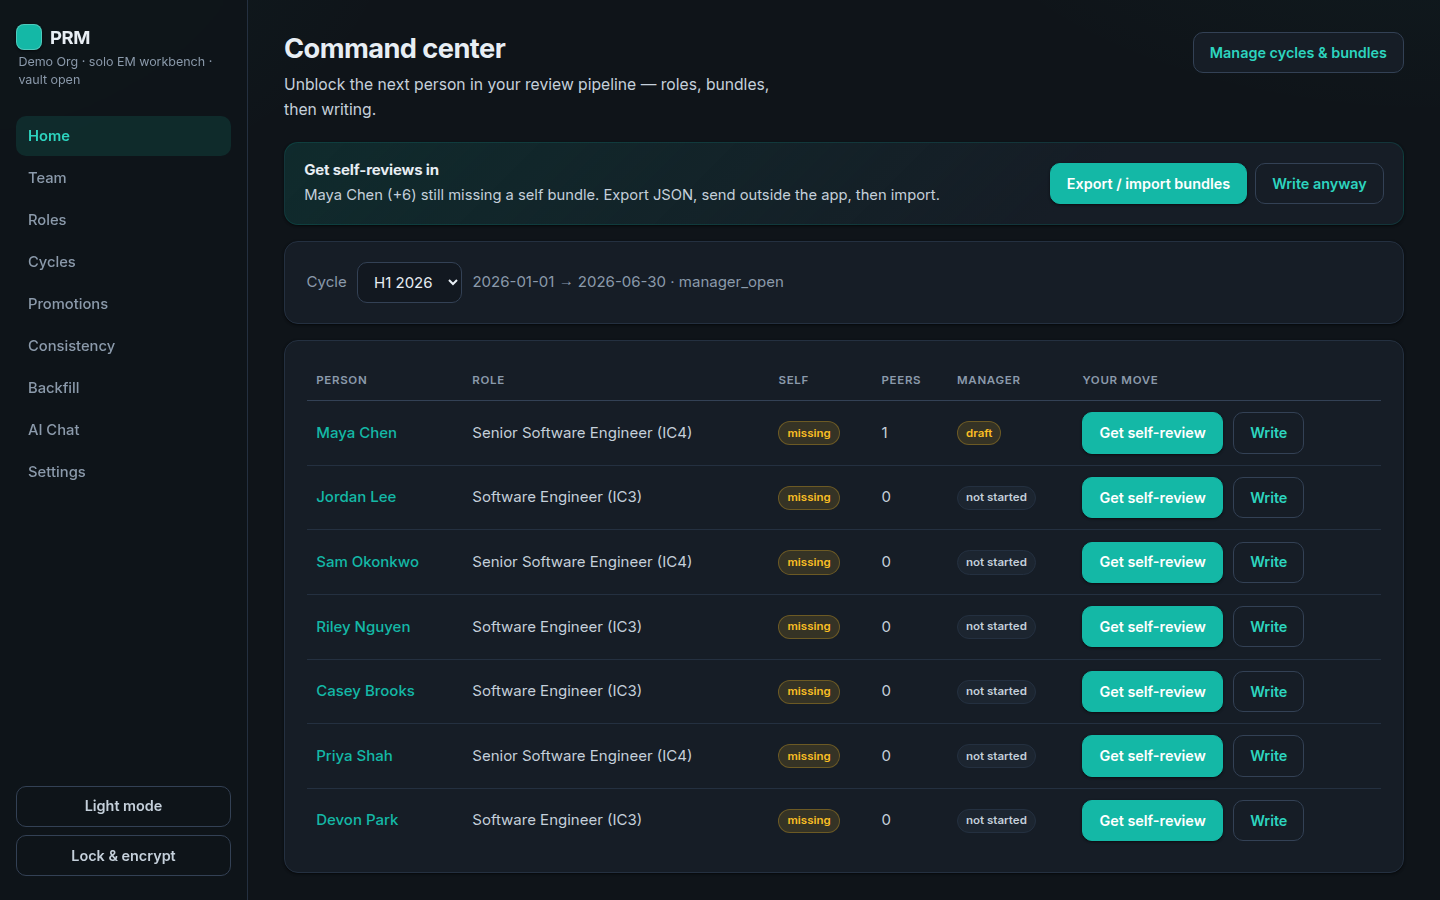
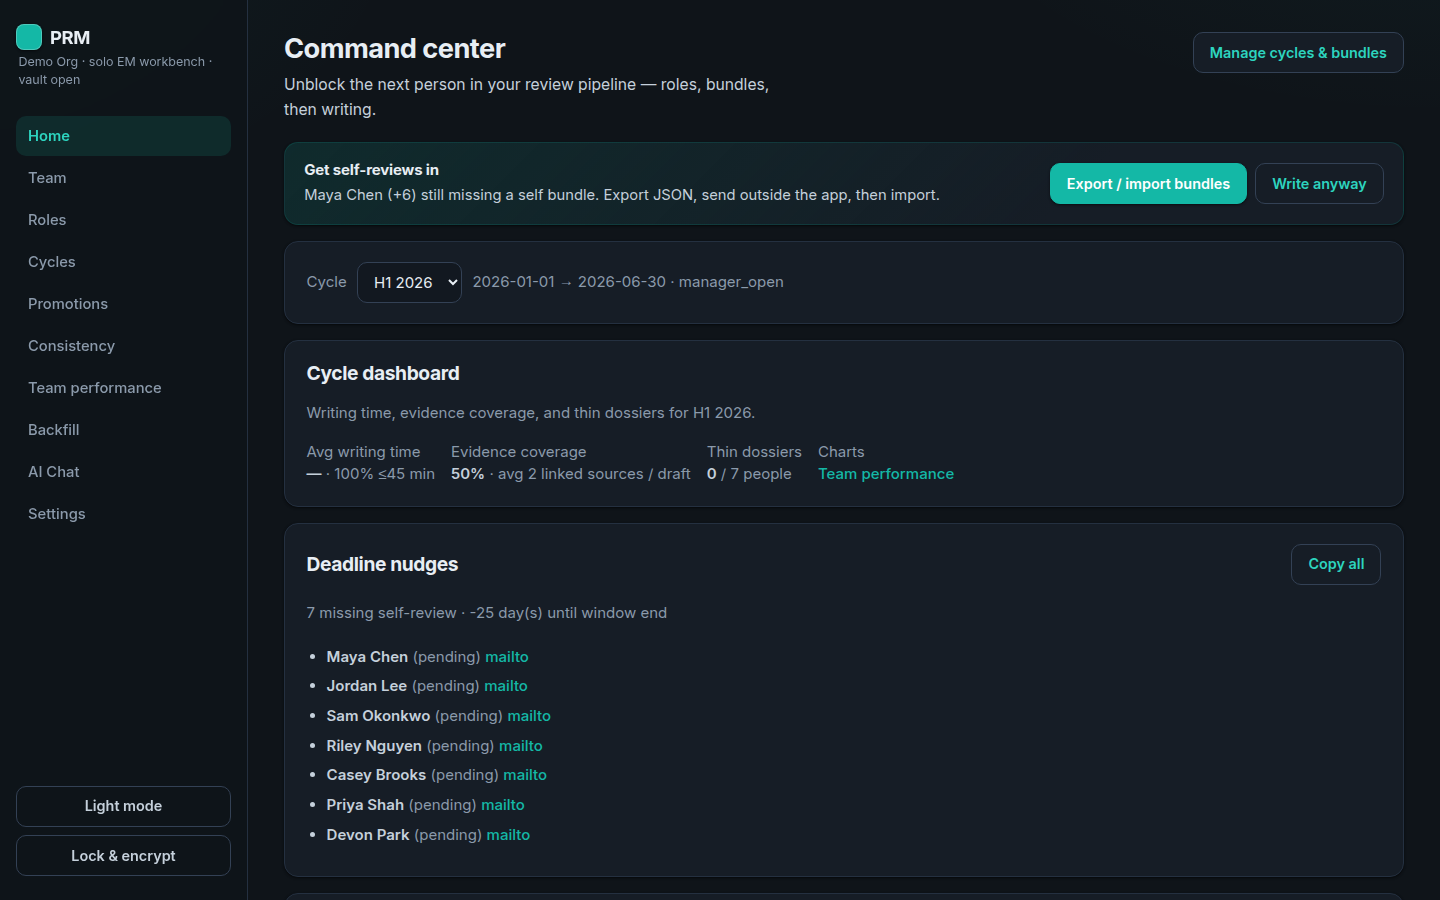
Refresh README with screen intent and team performance
Expand each screen with intent and how-it-works notes, drop em dashes,
add the team performance gallery shot, and renumber later screenshots.

diff --git a/README.md b/README.md
@@ -2,11 +2,39 @@
 
 Local **solo EM workbench** for evidence-backed performance reviews and promotion cases.
 
-ICs never log in. Self/peer input arrives as JSON import bundles. Your vault stays on disk — **Lock & encrypt** seals SQLite + files at rest.
+ICs never log in. Self and peer input arrives as JSON import bundles. Your vault stays on disk: **Lock & encrypt** seals SQLite and dossier files at rest.
 
 <p align="center">
   <img src="./docs/screenshots/02-home.png" alt="Command center" width="900" />
 </p>
+
+## Why this exists
+
+Most review tools are either a shared HR portal (everyone logs in) or a blank Google Doc. This app is for one engineering manager who wants:
+
+1. **A year-round dossier** so writing season is not a scavenger hunt
+2. **Role frameworks as the bar** so ratings map to expectations, not vibes
+3. **Evidence-linked drafts** so extreme scores and promo claims stay grounded
+4. **Local custody** so private notes and underperformance plans stay on your machine until you export
+
+The product is intentionally single-user. Peers and ICs participate by filling exported forms that you import back. That keeps anonymity and trust simple for v1.
+
+## Core loop
+
+```
+upload role R&R → assign people → capture dossier evidence
+  → open a cycle → import self/peer bundles → writing desk (+ AI)
+  → consistency + team performance check → share export → history / promo packets
+```
+
+| Stage | Intent |
+|-------|--------|
+| Roles + people | Define what "good" means before you score anyone |
+| Dossier | Accumulate achievements, goals, feedback, docs, and concerns all year |
+| Cycle + bundles | Time-box the review without building a multi-user portal |
+| Writing desk | Draft, cite, lint, finalize, then share a subject packet |
+| Consistency / team performance | Catch clustering, thin evidence, and odd rating shapes before you ship |
+| Promotions | Reuse the same role bar for next-level / promo cases |
 
 ## Quick start
 
@@ -24,6 +52,8 @@ pnpm dev
 
 First load: **Create & seed demo team** (8-person org), then unlock. Between sessions use **Lock & encrypt**.
 
+Requires **pnpm 10.33.3** (see [`AGENTS.md`](./AGENTS.md) if Corepack hands you pnpm 11).
+
 ### Desktop (Tauri)
 
 ```bash
@@ -31,11 +61,11 @@ pnpm desktop:dev      # native window (needs WebView + Rust)
 pnpm desktop:build
 ```
 
-See [`apps/desktop/README.md`](./apps/desktop/README.md).
+Packaged builds on `main` CI upload installers as Actions artifacts (`desktop-windows-x86_64`, `desktop-macos-aarch64`, `desktop-linux-x86_64`). Details: [`apps/desktop/README.md`](./apps/desktop/README.md).
 
 ### Cursor MCP (bulk load)
 
-`@prm/mcp` unlocks the vault and writes dossier evidence — pair with Jira/Google MCPs for cold-start backfill.
+`@prm/mcp` unlocks the vault and writes dossier evidence. Pair it with Jira, Bitbucket, or other MCPs when you need a cold-start backfill instead of typing every note by hand.
 
 ```bash
 pnpm mcp
@@ -51,49 +81,65 @@ Regenerate with `pnpm screenshots` (UI + API running; default password `workbenc
 
 ### Unlock
 
-Encrypted vault entry. Seed password `workbench`.
+**Intent:** Keep the workspace sealed when you walk away. The unlock gate is the trust boundary for local data.
+
+**How it works:** On first run you create a workspace password and can seed a demo org. Later sessions decrypt the vault with that password. **Lock & encrypt** re-seals SQLite and files so a stolen laptop disk is not a readable review archive.
 
 ![Unlock workbench](./docs/screenshots/01-unlock.png)
 
-### Home — command center
+### Home (command center)
 
-Who to unblock next: roles, self bundles, then writing.
+**Intent:** Answer "who is blocked, and what should I do next?" without hunting through every page.
+
+**How it works:** Pick a cycle to see pipeline status (self / peer / manager), deadline nudges for missing self reviews, and a compact cycle dashboard (writing time, evidence coverage, thin dossiers). Links out to writing desks, backfill, and team performance when the numbers look thin.
 
 ![Command center](./docs/screenshots/02-home.png)
 
 ### Team
 
-Directs roster. Open a dossier to capture year-round evidence.
+**Intent:** Maintain the roster of directs you actually manage reviews for.
+
+**How it works:** List, add, or CSV-import people, then open a person to work their dossier. This is the directory, not the evaluation surface. Role assignment and cycle participation hang off these records.
 
 ![Team](./docs/screenshots/03-team.png)
 
 ### Person dossier
 
-Achievements, goals, feedback, and documents — the citation pool for writing.
+**Intent:** Build a citation pool all year so the writing desk is not empty in week one of reviews.
+
+**How it works:** Capture achievements, goals, feedback (with optional 1:1 theme tags), documents, concern / underperformance notes, and external links (for example Jira or Bitbucket sync). Visibility controls keep EM-only material out of subject exports. AI digests and drafts pull from this pool (and from concerns only when you opt them in).
 
 ![Person dossier](./docs/screenshots/04-person.png)
 
 ### Roles
 
-Assign current (+ next) RoleDefinitions — the evaluation bar.
+**Intent:** Make the evaluation bar explicit. Ratings should map to role expectations, not a private mental model.
+
+**How it works:** Author or import RoleDefinitions (ladder levels, competency keys, expectations). Assign each person a current role and optionally a next role for promo / gap work. Uploaded R&R docs can be structured manually or with AI extract. Writing desks and promotion packets read from these definitions.
 
 ![Roles](./docs/screenshots/05-roles.png)
 
 ### Cycles
 
-Export/import self & peer JSON bundles outside the app.
+**Intent:** Time-box a review season and collect self / peer input without live IC login.
+
+**How it works:** Create a cycle with a window and soft phases. Export JSON bundles for self and peer forms, collect them outside the app, then import responses. Waive with a reason when someone is not returning a form. Participants snapshot who was on the team for that cycle.
 
 ![Cycles](./docs/screenshots/06-cycles.png)
 
 ### Writing desk
 
-Competency scores + evidence links → bias lint → finalize (citation snapshots) → share HTML/PDF.
+**Intent:** Produce an evidence-backed manager review in a bounded amount of time (target ≤45 minutes per person).
+
+**How it works:** Score competencies and overall against the assigned role, link dossier evidence to non-middle scores, draft narrative sections (optionally with AI from an allowlisted citation set), run bias / faithfulness lint, log decision reasons when ratings move, then finalize. Finalize freezes citation snapshots. Share exports HTML (print to PDF) with private notes and EM-only sources stripped.
 
 ![Writing desk](./docs/screenshots/07-writing-desk.png)
 
 ### Promotions
 
-Next-role packets for skip-level / promo cases.
+**Intent:** Reuse the same role bar for next-level and promotion cases instead of a parallel doc pile.
+
+**How it works:** Open a promotion packet against a target RoleDefinition. Mark gaps / demonstrating signals, draft the case (optionally with AI), and keep it alongside the cycle review history so skip-level conversations stay evidence-backed.
 
 ![Promotions](./docs/screenshots/08-promotions.png)
 
@@ -101,41 +147,59 @@ Next-role packets for skip-level / promo cases.
 
 ### Consistency
 
-Rating distribution and side-by-side drafts before you finalize.
+**Intent:** Catch unfair shape in your own drafts before anyone else sees them (everyone a 4, extreme scores with no cites, missing roles).
+
+**How it works:** For a selected cycle, show overall rating distribution and a card per person with competencies, evidence link counts, and flags (thin evidence, extreme overall, unassigned role). Jump into each writing desk to fix gaps. This is single-EM calibration, not a multi-manager room.
 
 ![Consistency](./docs/screenshots/10-consistency.png)
 
+### Team performance
+
+**Intent:** See the team's rating and coaching shape as graphs, not only as a queue of drafts.
+
+**How it works:** Cycle-scoped charts for overall distribution, evidence vs overall, competency averages, promo readiness, writing-time buckets, level mix, and top 1:1 themes. The people table adds competency sparklines and prior-cycle overall deltas when history exists. Use it with Consistency: graphs for pattern, cards for per-person fixes.
+
+![Team performance](./docs/screenshots/11-team-performance.png)
+
 ### Backfill
 
-Fill thin dossiers (or pair with MCP bulk load) so cold-start writing isn’t empty.
+**Intent:** Unblock writing when dossiers are still empty after you first adopt the tool.
 
-![Backfill](./docs/screenshots/11-backfill.png)
+**How it works:** Lists people below the thin-dossier threshold (few achievements / feedback / docs / goals). Walk a short wizard to add starter evidence, or use MCP / integrations for bulk load. The goal is a usable citation pool, not perfect history on day one.
+
+![Backfill](./docs/screenshots/12-backfill.png)
 
 ### AI Chat
 
-Grounded Q&A over workspace/dossier data — cites ids, doesn’t invent evidence.
+**Intent:** Ask grounded questions over the workspace or a single dossier without inventing evidence.
 
-![AI Chat](./docs/screenshots/12-chat.png)
+**How it works:** Chat is scoped to workspace or person context, cites allowlisted ids from real dossier rows, and respects private-tier egress settings. It is for synthesis and retrieval, not a substitute for the writing desk finalize path.
+
+![AI Chat](./docs/screenshots/13-chat.png)
 
 ### Settings
 
-AI provider, egress gates (including document extracts), theme.
+**Intent:** Configure providers, privacy gates, appearance, and vault maintenance in one place.
 
-![Settings](./docs/screenshots/13-settings.png)
+**How it works:** Set AI provider and models (Anthropic, OpenAI, Cursor gateway, Ollama), toggle egress for private notes / meetings / document extracts, manage Jira and Bitbucket credentials, run encrypted backup / restore, verify the activity log, and switch dark / light theme.
+
+![Settings](./docs/screenshots/14-settings.png)
 
 ---
 
 ## What’s in this slice
 
-- **Encrypted vault** (AES-256-GCM) for DB + dossier files on lock  
-- **People / roles / cycles** with self & peer JSON bundles  
-- **Writing desk** — competencies, evidence links, citation freeze, HTML/PDF subject packets  
-- **Consistency** view + **bias/tone lint** before share  
-- **Promotions** against next-role expectations  
-- **Backfill** wizard + MCP bulk load for thin dossiers  
-- **AI** — digests, section draft, peer synthesize, chat (Anthropic / OpenAI / Ollama) with citation allowlist  
-- **Dark / light** theme preference  
+- **Encrypted vault** (AES-256-GCM) for DB and dossier files on lock
+- **People / roles / cycles** with self and peer JSON bundles
+- **Writing desk**: competencies, evidence links, citation freeze, HTML subject packets
+- **Consistency** and **team performance** views before you share
+- **Bias / faithfulness lint** (advisory) on drafts
+- **Promotions** against next-role expectations
+- **Backfill** wizard plus MCP / Jira / Bitbucket paths for thin dossiers
+- **AI**: digests, section draft, peer synthesize, chat, with citation allowlist
+- **Desktop** packaging (Tauri) with CI installers on `main`
+- **Dark / light** theme preference
 
 ## Docs
 
-Product & architecture under [`/docs`](./docs). Core loop evaluation: [`docs/CORE_LOOP_EVAL.md`](./docs/CORE_LOOP_EVAL.md). Cursor cloud notes: [`AGENTS.md`](./AGENTS.md).
+Product and architecture live under [`/docs`](./docs). Start with [`docs/PRODUCT_BRIEF.md`](./docs/PRODUCT_BRIEF.md). Core loop evaluation: [`docs/CORE_LOOP_EVAL.md`](./docs/CORE_LOOP_EVAL.md). Cursor cloud notes: [`AGENTS.md`](./AGENTS.md).

diff --git a/docs/screenshots/README.md b/docs/screenshots/README.md
@@ -10,3 +10,5 @@ pnpm screenshots
 ```
 
 Requires system Chrome (`google-chrome-stable`) and root `puppeteer-core`.
+
+Numbering matches the README Screens section (`01` unlock through `14` settings), including `11-team-performance`.
